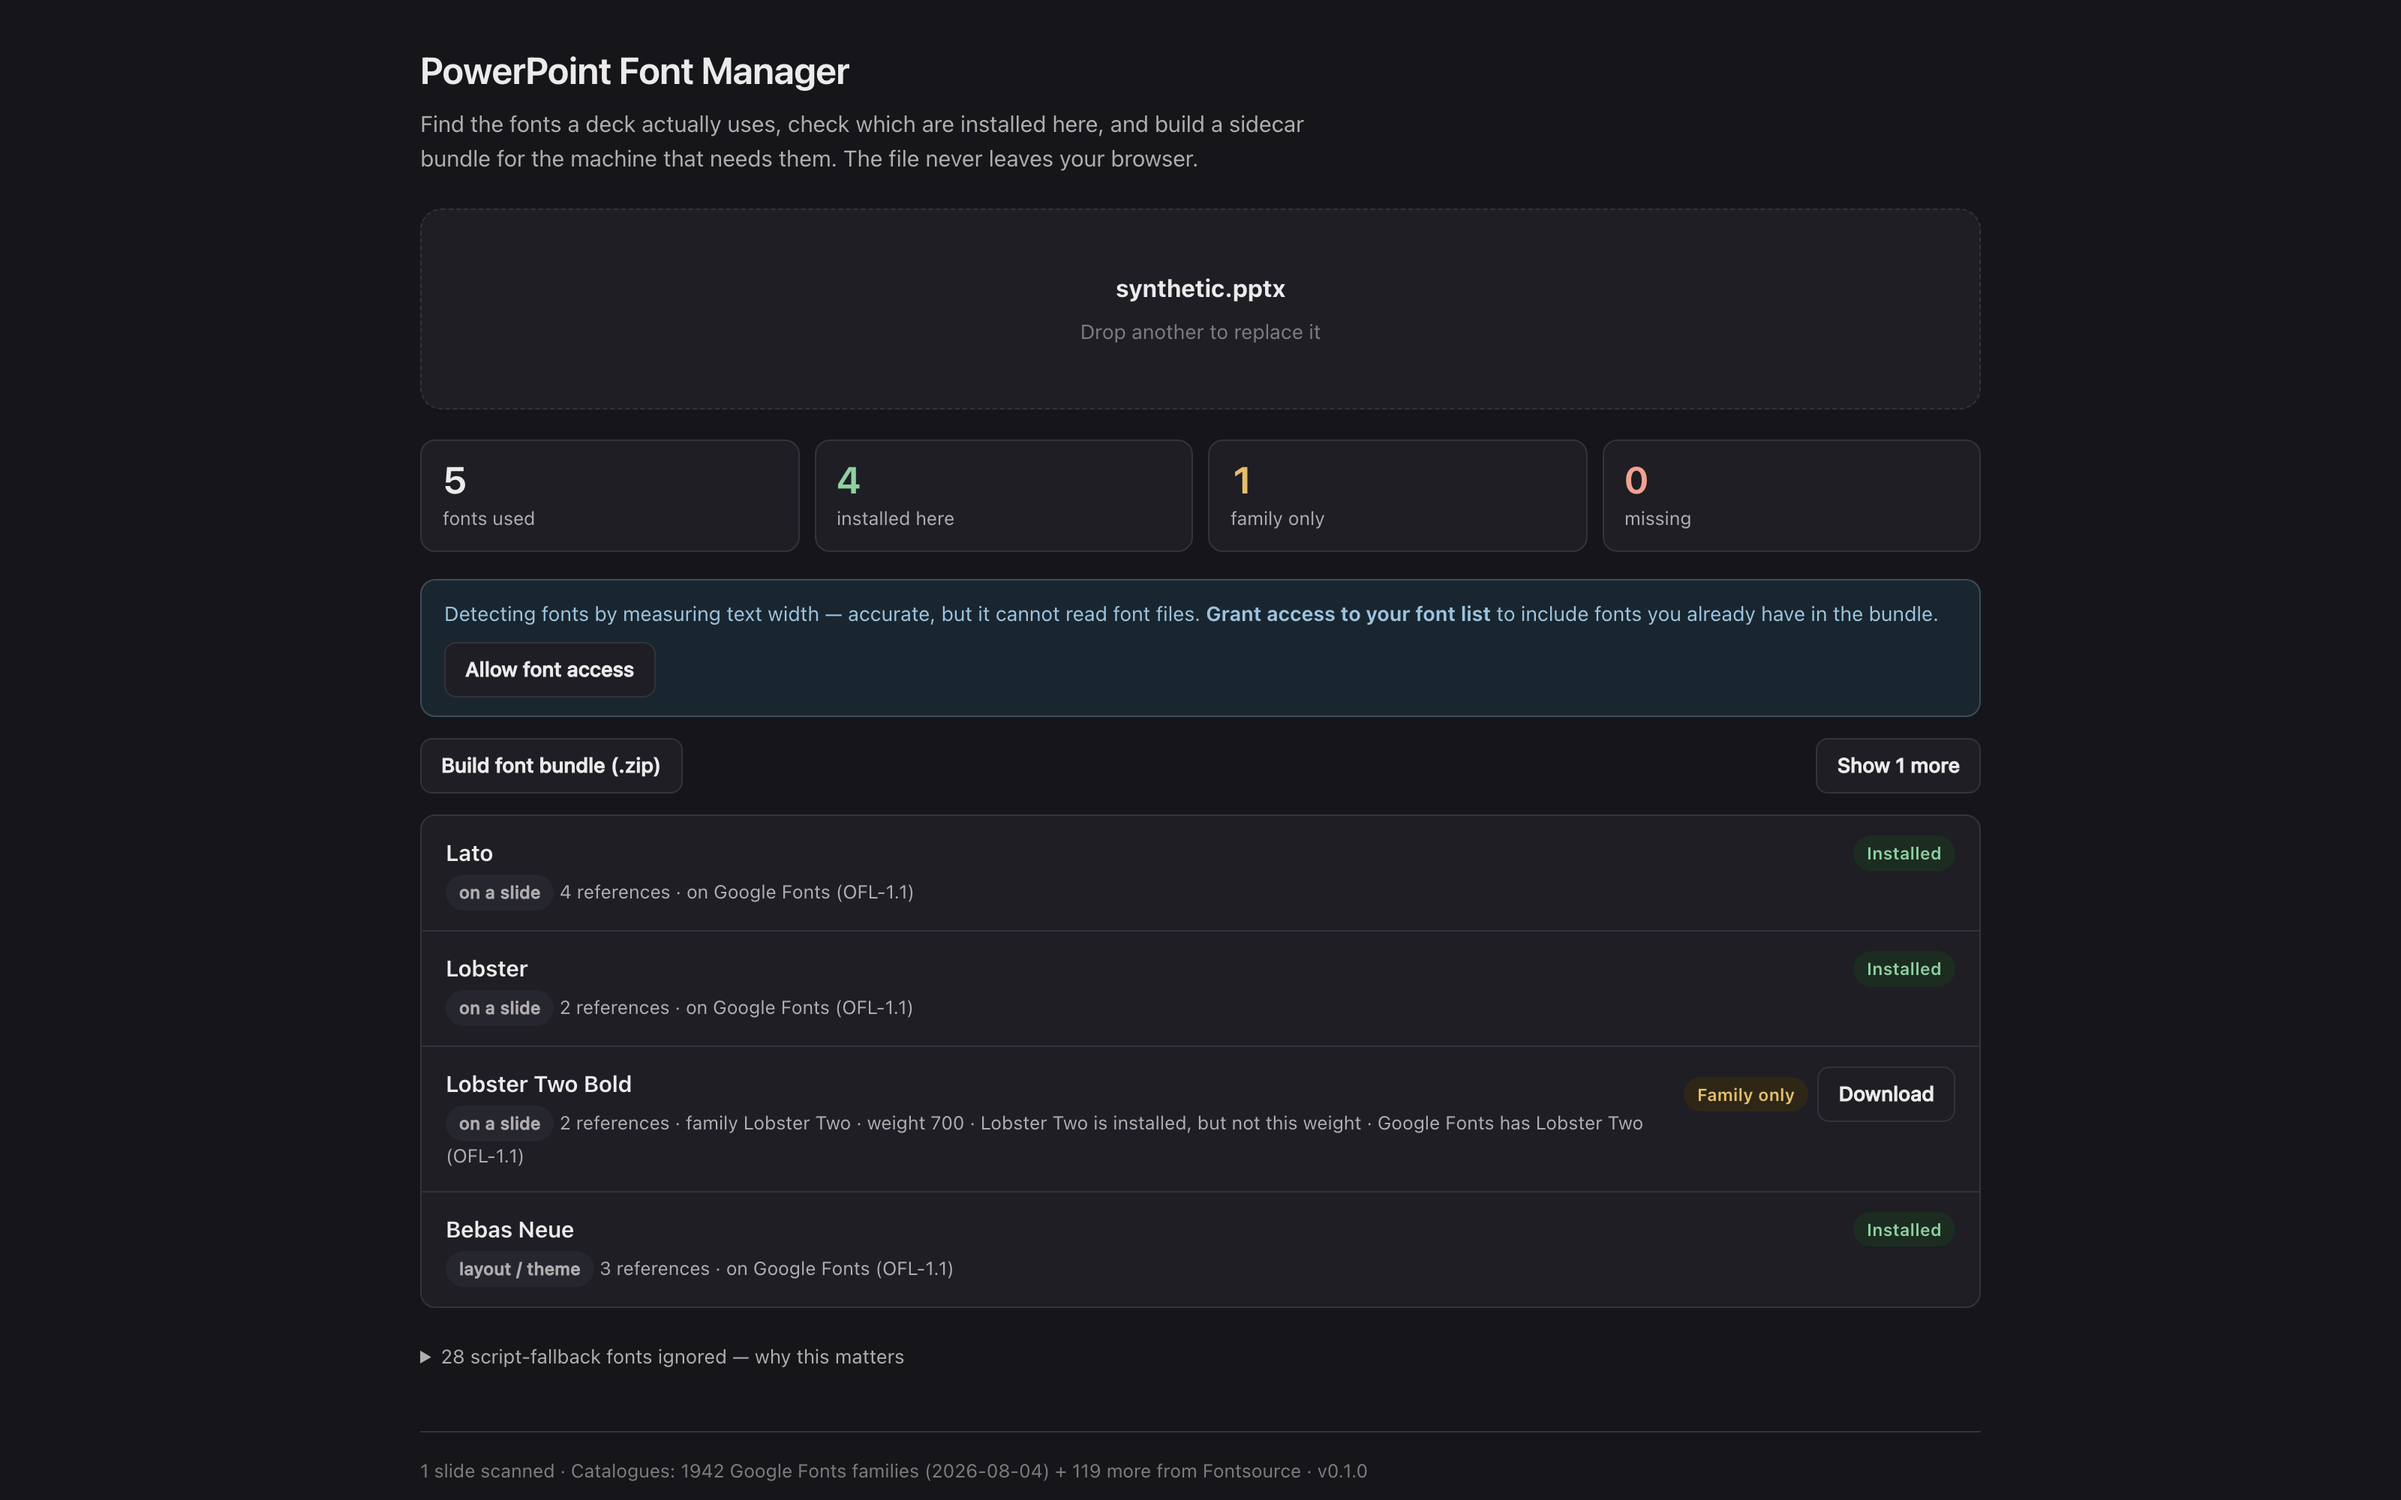
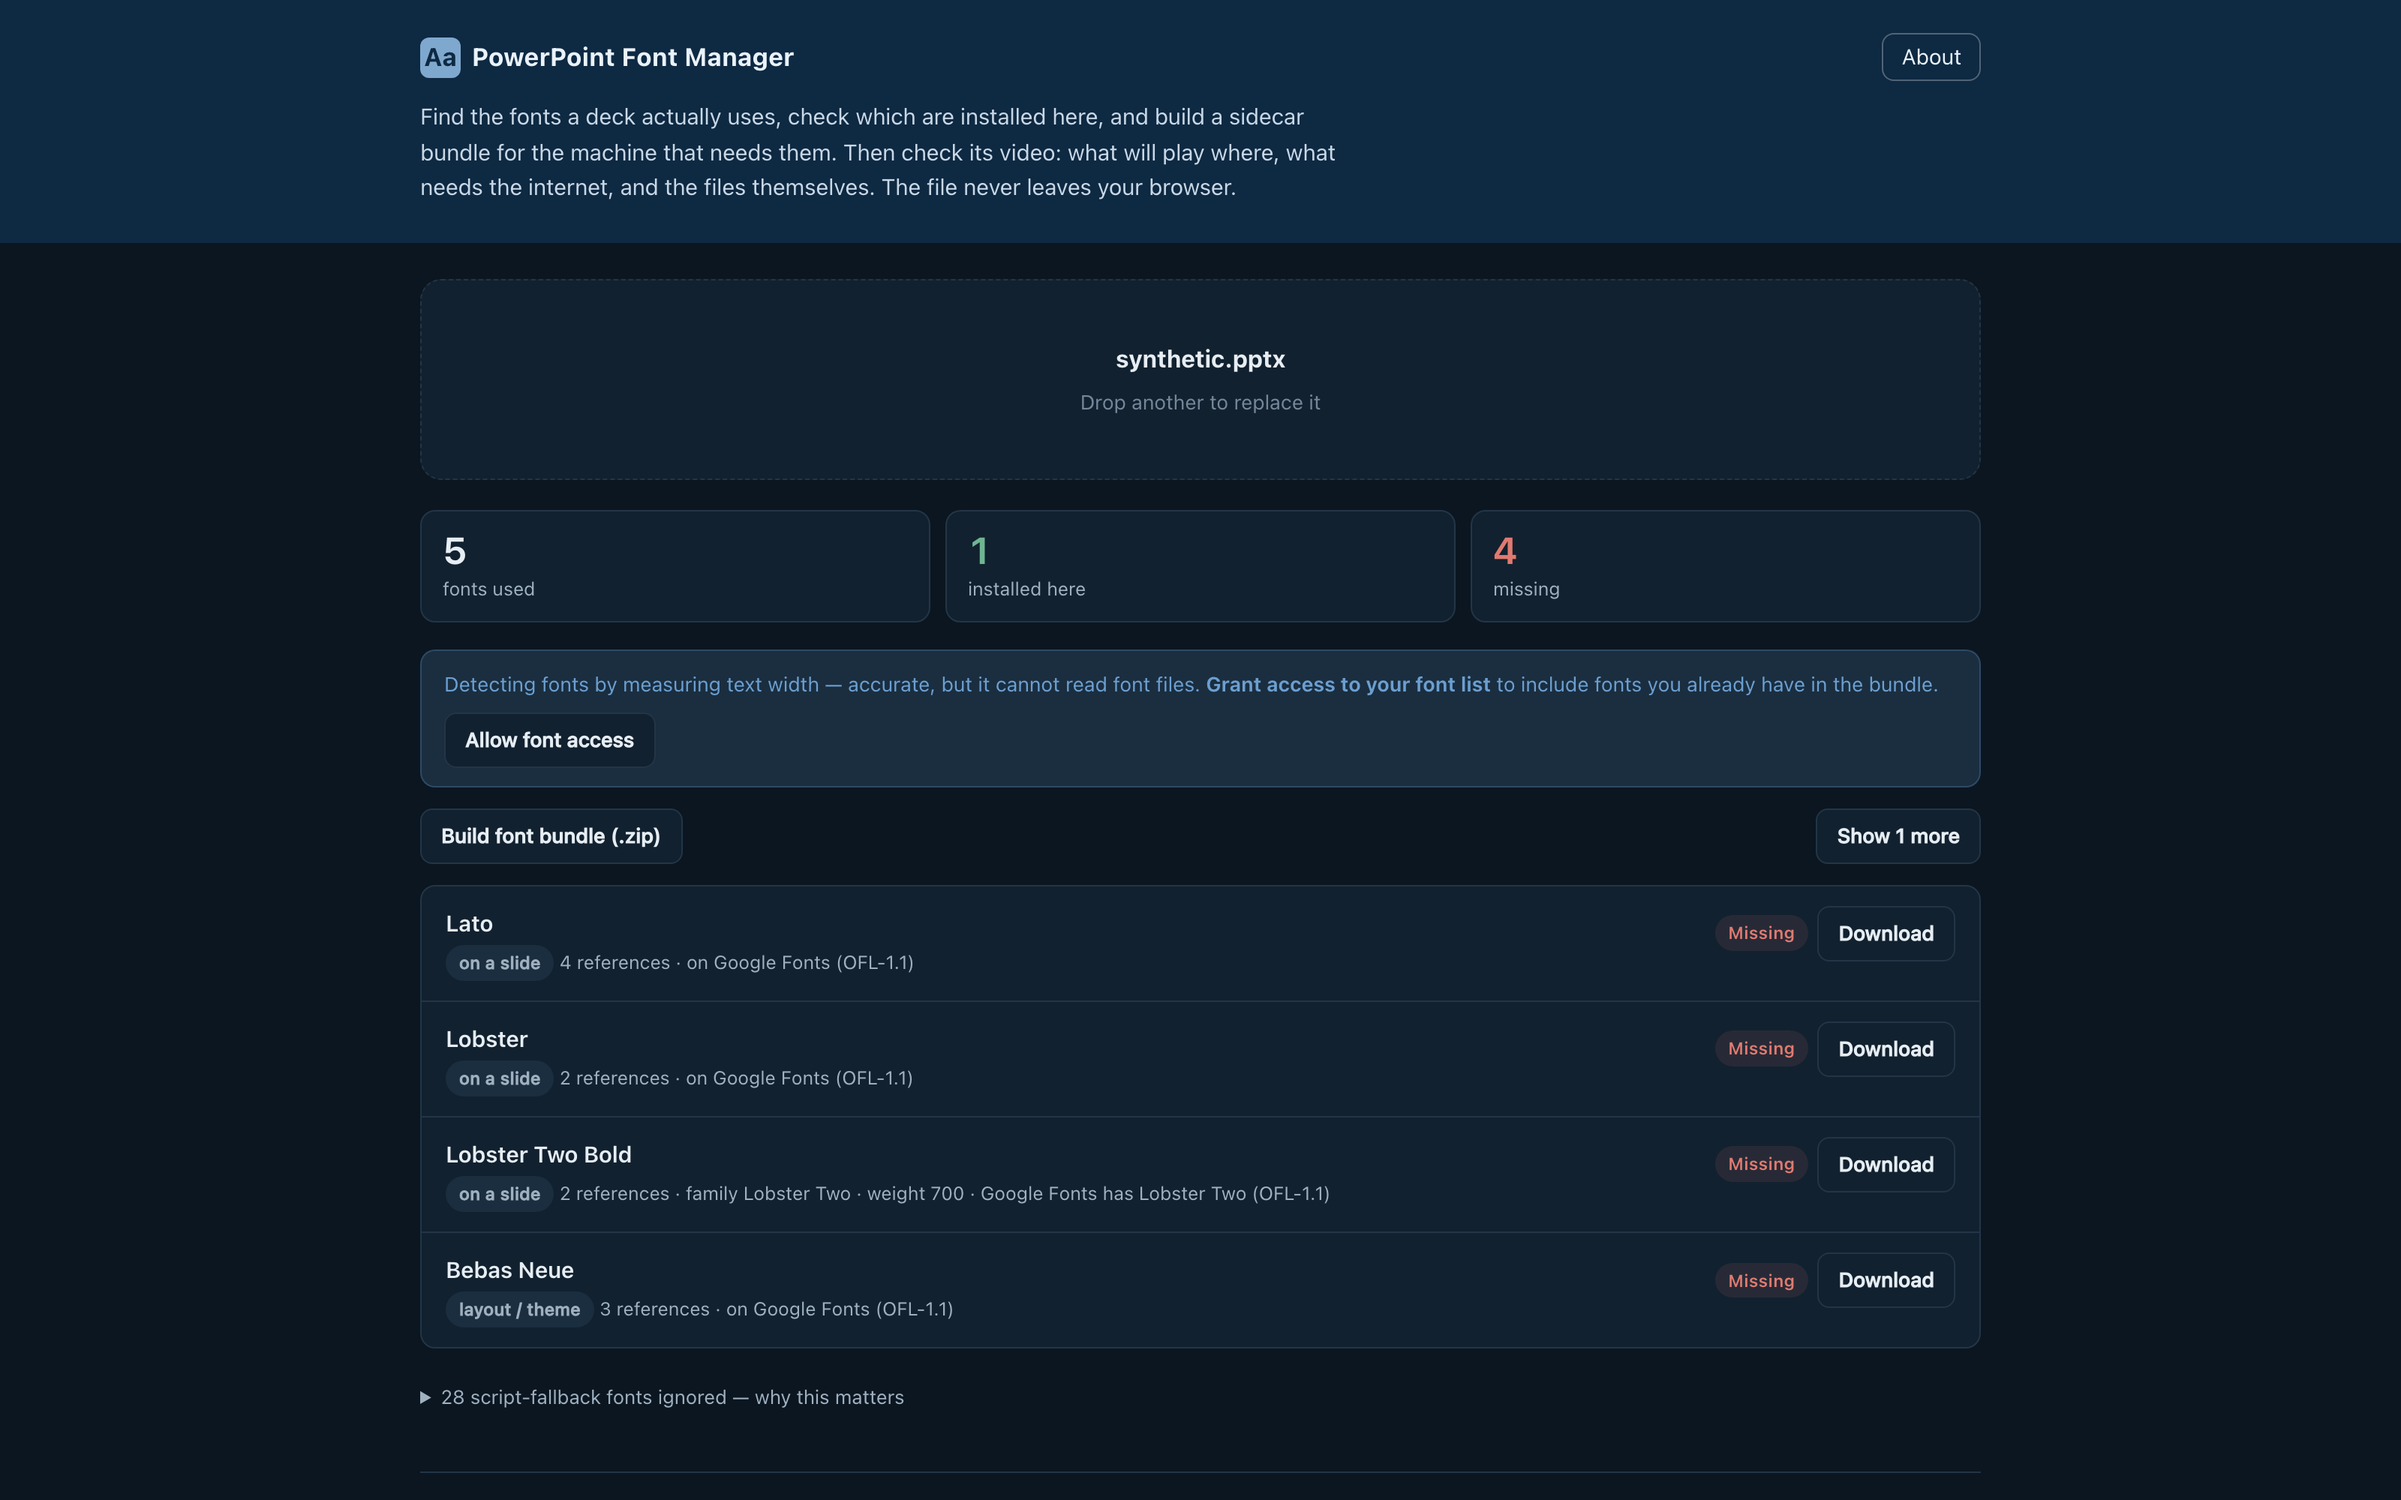
docs: retake screenshots in the new dark theme
docs/screenshots/pptx-font-manager.png is the hosted tool in the shared Stoatworks theme, dark mode, 1600x1000 at 2x as before, with test/fixtures/synthetic.pptx loaded through the file input. Lato, Lobster, Lobster Two and Bebas Neue are no longer installed on the Mac that took it, so the four Google Fonts rows now read Missing with a Download button and the stat cards say 1 installed, 4 missing; Courier New (notes / unused layout) is the installed one behind Show 1 more. The README and user-guide captions said four installed and one family-only, so they now describe this picture.

diff --git a/docs/USER-GUIDE.md b/docs/USER-GUIDE.md
@@ -3,9 +3,9 @@
 PowerPoint Font Manager tells you which fonts a `.pptx` actually uses and which of those are
 installed here, then builds a sidecar `.zip` that installs the rest on the machine that needs them.
 
-![The hosted tool with the repo's synthetic test deck loaded: five fonts found, four installed on the machine that took the picture, one family present but not…](screenshots/pptx-font-manager.png)
+![The hosted tool with the repo's synthetic test deck loaded: five fonts found, four of them missing on the machine that took the picture, each with a Download button](screenshots/pptx-font-manager.png)
 
-*The hosted tool with the repo's synthetic test deck loaded: five fonts found, four installed on the machine that took the picture, one family present but not at the weight the deck asks for, and the bundle ready to build. The deck never left the browser.*
+*The hosted tool with the repo's synthetic test deck loaded: five fonts found. The four Google Fonts families on its slides and layouts aren't installed on the machine that took the picture, so each is marked missing with a Download button; the fifth, Courier New, appears only in the notes or an unused layout, is installed, and sits behind Show 1 more. The deck never left the browser.*
 
 Everything happens in the browser. The deck is never uploaded anywhere.
 

diff --git a/README.md b/README.md
@@ -21,7 +21,7 @@ Use it at [pptx-font-manager.stoatworks-labs.com](https://pptx-font-manager.stoa
 
 ![The hosted tool with the repo's synthetic test deck loaded: five fonts found and their install state on this machine](docs/screenshots/pptx-font-manager.png)
 
-<sub>The hosted tool with the repo's synthetic test deck (`test/fixtures/synthetic.pptx`) loaded: five fonts found, four installed on the machine that took the picture, one family present but not at the weight the deck asks for, and the bundle ready to build. The deck never left the browser.</sub>
+<sub>The hosted tool with the repo's synthetic test deck (`test/fixtures/synthetic.pptx`) loaded: five fonts found. The four Google Fonts families on its slides and layouts aren't installed on the machine that took the picture, so each is marked missing with a Download button; the fifth, Courier New, appears only in the notes or an unused layout, is installed, and sits behind Show 1 more. The deck never left the browser.</sub>
 
 ---
 
